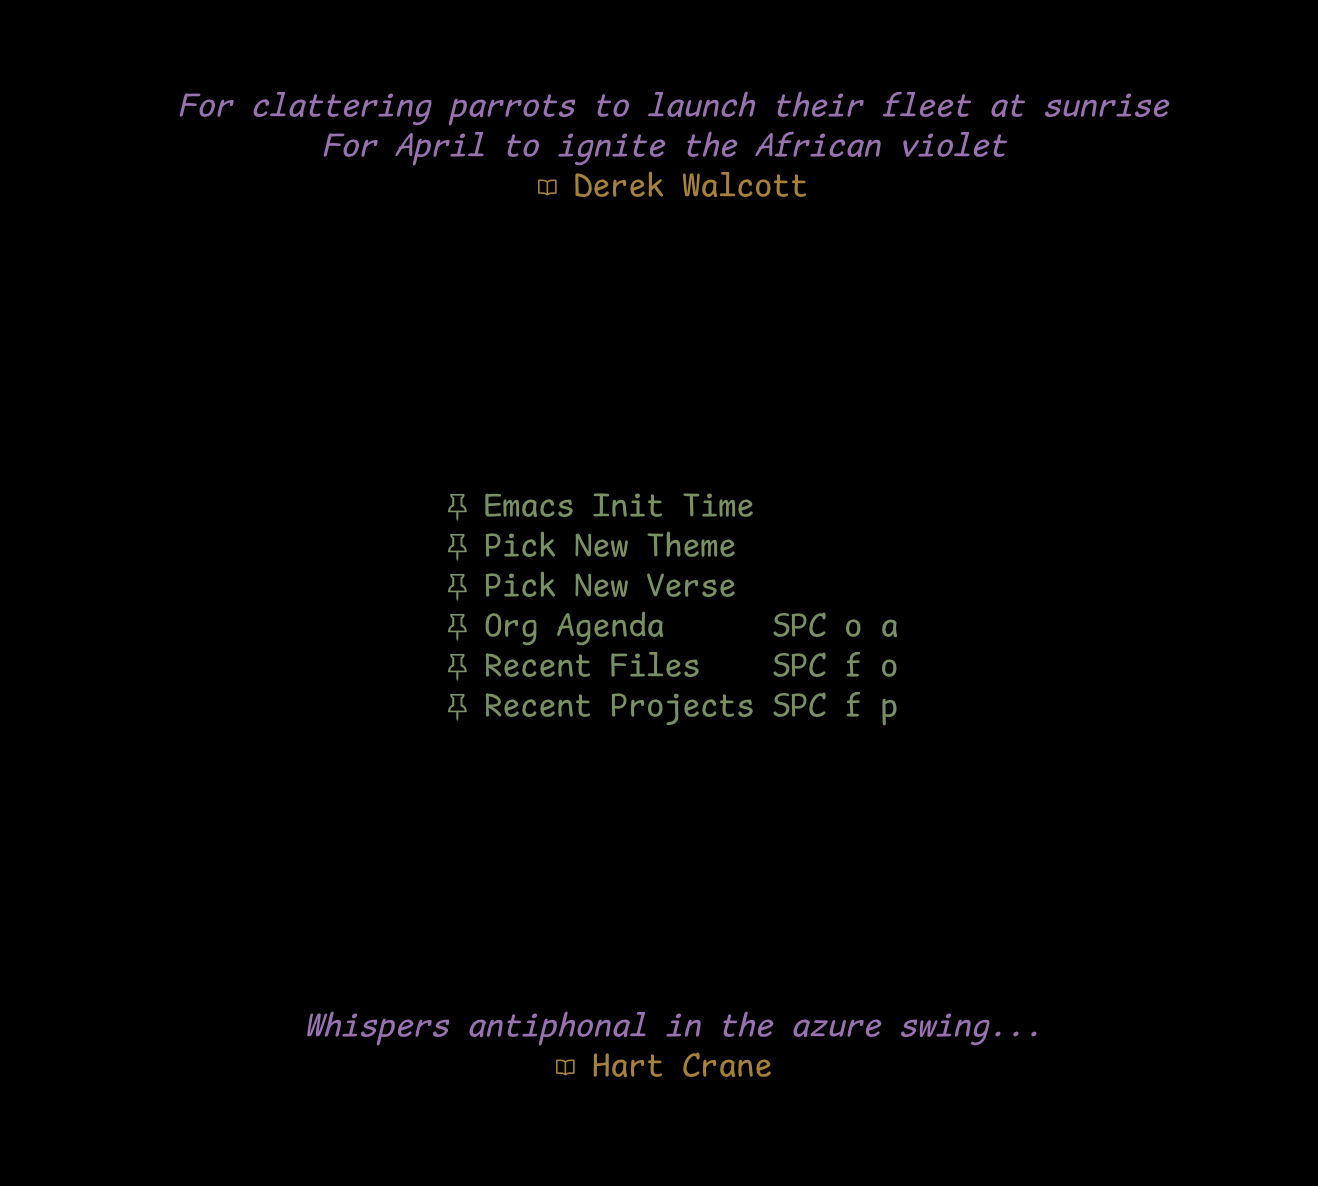
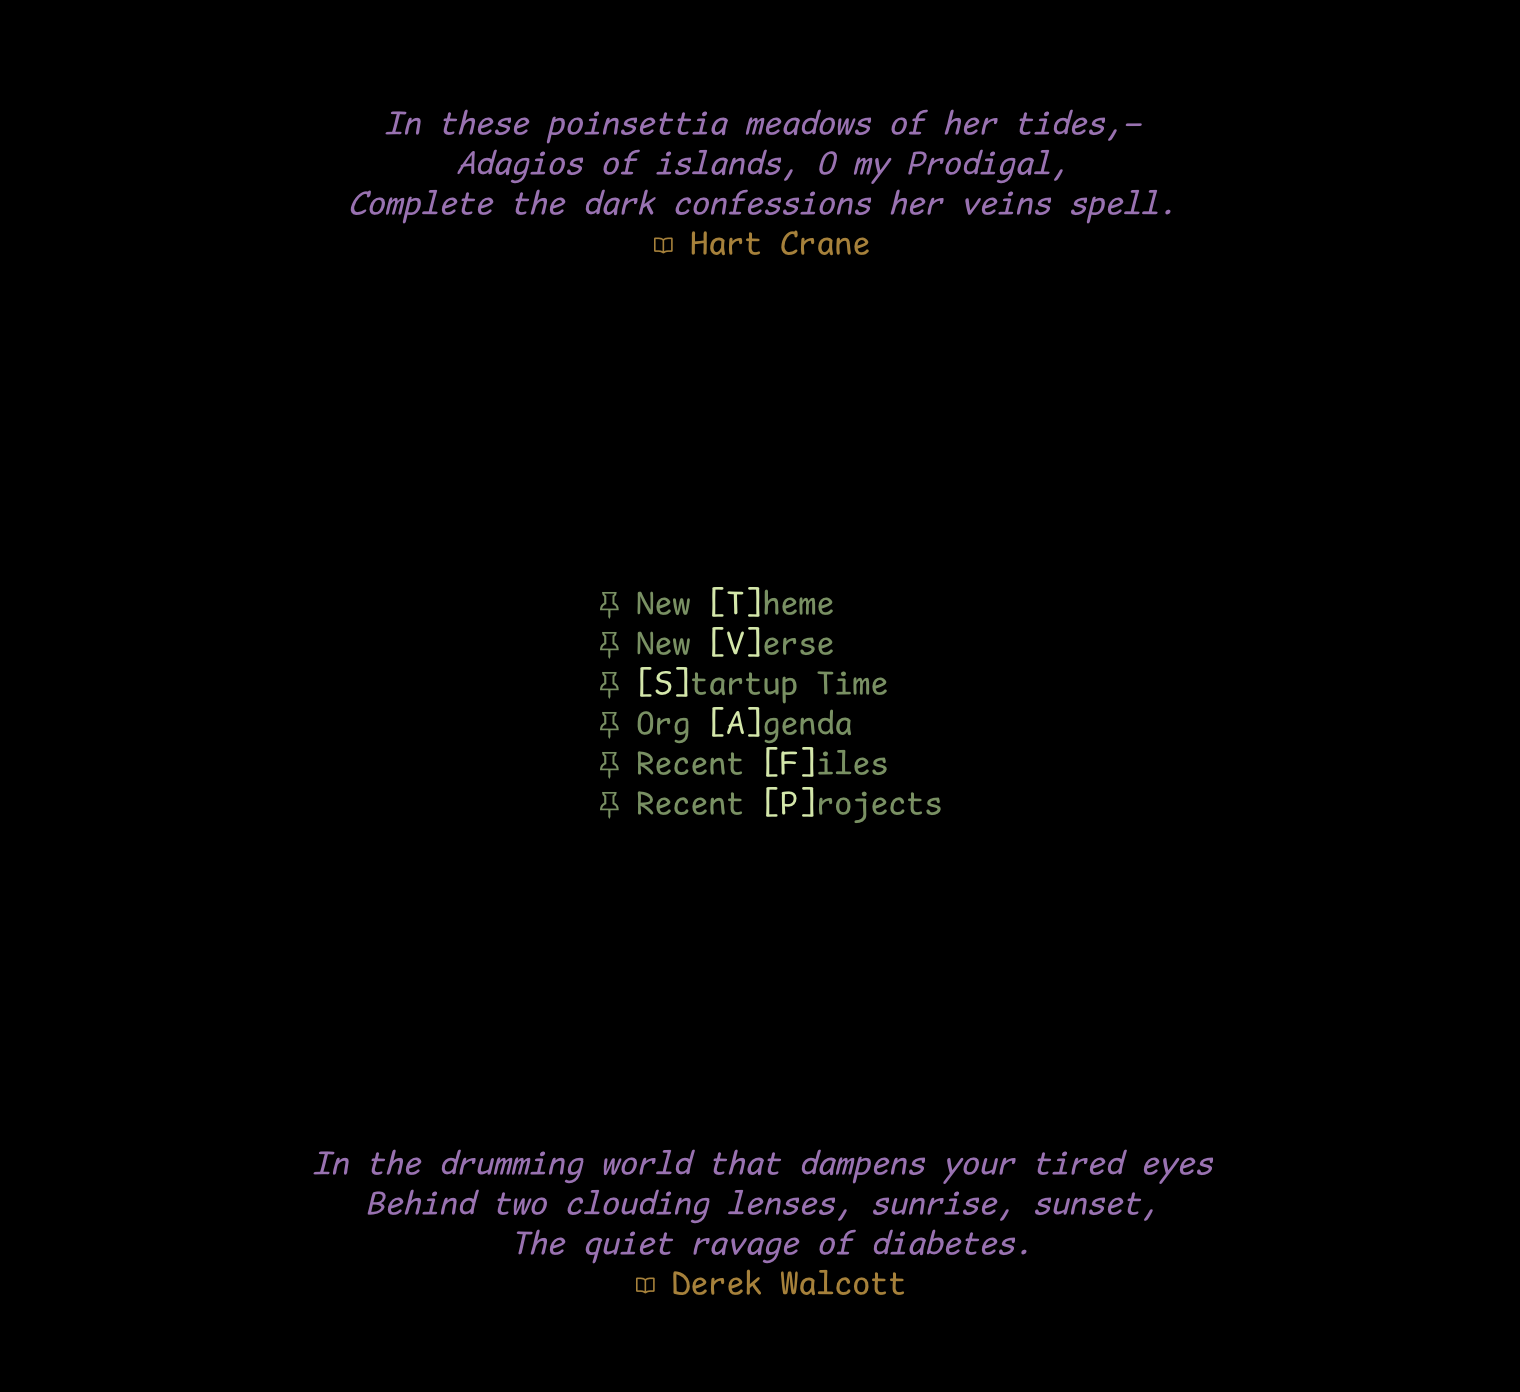
doc: update welcome screen showcase.

diff --git a/README.md b/README.md
@@ -1,29 +1,29 @@
 
 # Table of Contents
 
-1.  [Features](#orgacce455)
-    1.  [Blazing fast.](#org3d27324)
-    2.  [Robust](#org00cbaf8)
-    3.  [Compatability](#orgba198e0)
-    4.  [Feature rich](#org5f5ddcf)
-    5.  [Be wild](#orgd2cc17f)
-2.  [Showcase](#orgbfe70ba)
-    1.  [Welcome screen](#orgbef1509)
-    2.  [Code Navigation](#orgf930d6f)
-    3.  [Data Science](#orgc4a5d44)
-    4.  [Orgmode](#org5e39bba)
-3.  [TODOs](#orge918b4a)
-    1.  [Report `org-capture` bugs when inserting entries into table to upstream.](#org6e7ad92)
-    2.  [Utilize the contextual information from previous code block when editing source block within markdown/org.](#org61a7ee0)
-    3.  [Lazily load third-party plugins for `evil`.](#orgfa289dd)
-    4.  [Configure `evil-args` to use spaces as argument delimiter for `emacs-lisp-mode`.](#orgdb11e96)
-    5.  [Implement thread-folding for `mu4e`.](#org6ec49b9)
-4.  [Prerequisites](#orgdf00dd9)
-5.  [Discussion](#orgfa9cdc3)
-6.  [Notes](#org8314867)
-    1.  [Startup speed](#org1d8d1ea)
-    2.  [Naming conventions (WIP)](#org458cd3e)
-    3.  [Corfu or Company?](#orgfc8055f)
+1.  [Features](#org127056e)
+    1.  [Blazing fast.](#org59932a6)
+    2.  [Robust](#org76a9533)
+    3.  [Compatability](#org393db5f)
+    4.  [Feature rich](#org99f3c8c)
+    5.  [Be wild](#org4b7aa0a)
+2.  [Showcase](#org2600abe)
+    1.  [Welcome screen](#org6fd64f8)
+    2.  [Code Navigation](#orga452af0)
+    3.  [Data Science](#orga531303)
+    4.  [Orgmode](#orgef07a05)
+3.  [TODOs](#orgc732d57)
+    1.  [Report `org-capture` bugs when inserting entries into table to upstream.](#org1edd4c0)
+    2.  [Utilize the contextual information from previous code block when editing source block within markdown/org.](#org6c1d5b5)
+    3.  [Lazily load third-party plugins for `evil`.](#orgd26c970)
+    4.  [Configure `evil-args` to use spaces as argument delimiter for `emacs-lisp-mode`.](#orgb29cb5d)
+    5.  [Implement thread-folding for `mu4e`.](#orgc7e4158)
+4.  [Prerequisites](#orga23bb4e)
+5.  [Discussion](#orgc982cff)
+6.  [Notes](#orgea1895e)
+    1.  [Startup speed](#org6ea11f6)
+    2.  [Naming conventions (WIP)](#orga2a8f86)
+    3.  [Corfu or Company?](#orgee584b5)
 
 If you&rsquo;re currently reading this README file in Markdown format, it
 has been generated through `org-export`, from its original org
@@ -31,12 +31,12 @@ format. For the best experience, please consider reading the org
 format file instead.
 
 
-<a id="orgacce455"></a>
+<a id="org127056e"></a>
 
 # Features
 
 
-<a id="org3d27324"></a>
+<a id="org59932a6"></a>
 
 ## Blazing fast.
 
@@ -45,10 +45,10 @@ seconds on a VPS with a 1-core CPU and 1 GB RAM, and 0.22 seconds on
 WSL with an Intel i7-1185G7 and 32 GB RAM, TTY is exceptionally
 fast. The GUI is just as quick, starting in 0.44 seconds on Mac M1 and
 0.31 seconds on WSLg. For more information on startup speed, see
-[6.1](#org1d8d1ea).
+[6.1](#org6ea11f6).
 
 
-<a id="org00cbaf8"></a>
+<a id="org76a9533"></a>
 
 ## Robust
 
@@ -56,7 +56,7 @@ Package versions are locked and under version control, so no breaking
 changes are expected.
 
 
-<a id="orgba198e0"></a>
+<a id="org393db5f"></a>
 
 ## Compatability
 
@@ -65,7 +65,7 @@ TTY is not compromised, while GUI features, including `xwidget`, are
 also well-configured.
 
 
-<a id="org5f5ddcf"></a>
+<a id="org99f3c8c"></a>
 
 ## Feature rich
 
@@ -78,14 +78,14 @@ configuration.  Instead, it is &ldquo;heavy&rdquo; and feature rich, including:
 
 -   A keybinding scheme centered around leader and localleader keys, powered by `general` and `which-key`.
 
--   In-buffer autocompletion frontend based on `company` (see [6.3](#orgfc8055f)).
+-   In-buffer autocompletion frontend based on `company` (see [6.3](#orgee584b5)).
 
 -   Code completion and navigation based on `eglot` (LSP) and `citre` (Ctags).
 
 -   Integration with `eglot` and `org-babel` or `markdown-mode` that takes literate programming to the next level.
 
 
-<a id="orgd2cc17f"></a>
+<a id="org4b7aa0a"></a>
 
 ## Be wild
 
@@ -96,12 +96,12 @@ randomized with each launch. Have a fresh experience at every time. Be
 casual and wild!
 
 
-<a id="orgbfe70ba"></a>
+<a id="org2600abe"></a>
 
 # Showcase
 
 
-<a id="orgbef1509"></a>
+<a id="org6fd64f8"></a>
 
 ## Welcome screen
 
@@ -110,11 +110,11 @@ casual and wild!
 The welcome screen displays two randomly chosen verses from my
 carefully chosen collection.  This serves as a scratch buffer where
 you can perform Lisp evaluations. Frequently used commands are also
-listed, allowing for convenient execution by simply clicking on the
-corresponding button.
+listed, allowing for convenient execution by simply typing the hint
+key.
 
 
-<a id="orgf930d6f"></a>
+<a id="orga452af0"></a>
 
 ## Code Navigation
 
@@ -129,7 +129,7 @@ the definition of the chosen symbol is displayed with the aid of
 `ctags` (the Emacs command is `citre-peek`).
 
 
-<a id="orgc4a5d44"></a>
+<a id="orga531303"></a>
 
 ## Data Science
 
@@ -145,7 +145,7 @@ the aichat mode as `exp-code-e` to prompt chatgpt to provide an
 explanation of the code you sent.
 
 
-<a id="org5e39bba"></a>
+<a id="orgef07a05"></a>
 
 ## Orgmode
 
@@ -157,37 +157,37 @@ webkit. Preview slides in emacs without the need to open GUI browser
 anymore.
 
 
-<a id="orge918b4a"></a>
+<a id="orgc732d57"></a>
 
 # TODOs
 
 
-<a id="org6e7ad92"></a>
+<a id="org1edd4c0"></a>
 
 ## Report `org-capture` bugs when inserting entries into table to upstream.
 
 
-<a id="org61a7ee0"></a>
+<a id="org6c1d5b5"></a>
 
 ## Utilize the contextual information from previous code block when editing source block within markdown/org.
 
 
-<a id="orgfa289dd"></a>
+<a id="orgd26c970"></a>
 
 ## Lazily load third-party plugins for `evil`.
 
 
-<a id="orgdb11e96"></a>
+<a id="orgb29cb5d"></a>
 
 ## Configure `evil-args` to use spaces as argument delimiter for `emacs-lisp-mode`.
 
 
-<a id="org6ec49b9"></a>
+<a id="orgc7e4158"></a>
 
 ## DONE Implement thread-folding for `mu4e`.
 
 
-<a id="orgdf00dd9"></a>
+<a id="orga23bb4e"></a>
 
 # Prerequisites
 
@@ -204,7 +204,7 @@ anymore.
     install all the language grammars that are currently in use.
 
 
-<a id="orgfa9cdc3"></a>
+<a id="orgc982cff"></a>
 
 # Discussion
 
@@ -212,12 +212,12 @@ anymore.
 -   Alternatively, you are also welcome to open a Github issue.
 
 
-<a id="org8314867"></a>
+<a id="orgea1895e"></a>
 
 # Notes
 
 
-<a id="org1d8d1ea"></a>
+<a id="org6ea11f6"></a>
 
 ## Startup speed
 
@@ -232,7 +232,7 @@ skews `(emacs-init-time)` and does not accurately reflect startup
 time. This configuration is honest and truly lazy loads packages.
 
 
-<a id="org458cd3e"></a>
+<a id="orga2a8f86"></a>
 
 ## Naming conventions (WIP)
 
@@ -252,7 +252,7 @@ time. This configuration is honest and truly lazy loads packages.
 -   A symbol prefixed with `my&` indicates it is a special symbol like faces.
 
 
-<a id="orgfc8055f"></a>
+<a id="orgee584b5"></a>
 
 ## Corfu or Company?
 
